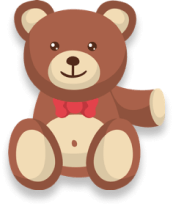
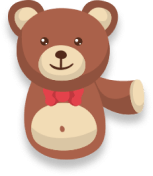
nsc vast creative - mishutka52

diff --git a/ads/2019/nsc/mishutka/index.hyperesources/index_hype_generated_script.js b/ads/2019/nsc/mishutka/index.hyperesources/index_hype_generated_script.js
@@ -3,5 +3,5 @@
 (function(){(function k(){function l(a,b,d){var c=!1;null==window[a]&&(null==window[b]?(window[b]=[],window[b].push(k),a=document.getElementsByTagName("head")[0],b=document.createElement("script"),c=h,false==!0&&(c=""),b.type="text/javascript",b.src=c+"/"+d,a.appendChild(b)):window[b].push(k),c=!0);return c}var h="index.hyperesources",c="index",e="index_hype_container";if(false==!1)try{for(var f=document.getElementsByTagName("script"),
 a=0;a<f.length;a++){var b=f[a].src,d=null!=b?b.indexOf("/index_hype_generated_script.js"):-1;if(-1!=d){h=b.substr(0,d);break}}}catch(n){}if(false==!1&&(a=navigator.userAgent.match(/MSIE (\d+\.\d+)/),a=parseFloat(a&&a[1])||null,a=l("HYPE_598","HYPE_dtl_598",!0==(null!=a&&10>a||false==!0)?"HYPE-598.full.min.js":"HYPE-598.thin.min.js"),false==!0&&(a=a||l("HYPE_w_598","HYPE_wdtl_598","HYPE-598.waypoints.min.js")),a))return;f=window.HYPE.documents;
 if(null!=f[c]){b=1;a=c;do c=""+a+"-"+b++;while(null!=f[c]);d=document.getElementsByTagName("div");b=!1;for(a=0;a<d.length;a++)if(d[a].id==e&&null==d[a].getAttribute("HYP_dn")){var b=1,g=e;do e=""+g+"-"+b++;while(null!=document.getElementById(e));d[a].id=e;b=!0;break}if(!1==b)return}b=[];b=[];d={};g={};for(a=0;a<b.length;a++)try{g[b[a].identifier]=b[a].name,d[b[a].name]=eval("(function(){return "+b[a].source+"})();")}catch(m){window.console&&window.console.log(m),d[b[a].name]=
-function(){}}a=new HYPE_598(c,e,{"7":{p:1,n:"bear.png",g:"28",t:"@1x"},"3":{p:1,n:"cta.png",g:"20",t:"@1x"},"8":{p:1,n:"message_2x.png",g:"14",t:"@2x"},"4":{p:1,n:"Screenshot%202019-07-12%2014.27.18.jpg",g:"26",o:true,t:"@1x"},"0":{p:1,n:"hand_2x.png",g:"17",t:"@2x"},"9":{p:1,n:"message.png",g:"14",t:"@1x"},"5":{p:1,n:"Screenshot%202019-07-12%2014.27.18_2x.jpg",g:"26",o:true,t:"@2x"},"1":{p:1,n:"hand.png",g:"17",t:"@1x"},"6":{p:1,n:"bear_2x.png",g:"28",t:"@2x"},"2":{p:1,n:"cta_2x.png",g:"20",t:"@2x"}},h,[],d,[{n:"Untitled Scene",o:"1",X:[0]}],[{o:"3",p:"600px",cA:false,Y:190,Z:62,L:[],c:"#DFE1E1",bY:1,d:190,U:{},T:{kTimelineDefaultIdentifier:{i:"kTimelineDefaultIdentifier",n:"Main Timeline",z:7.15,b:[],a:[{f:"c",y:0,z:1,i:"b",e:-2,s:68,o:"33"},{f:"c",y:0,z:1,i:"f",e:0,s:-30,o:"33"},{f:"c",y:0,z:0.21,i:"f",e:0,s:-20,o:"35"},{f:"c",y:0,z:1,i:"cQ",e:1,s:0.5,o:"33"},{f:"c",y:0,z:1,i:"cR",e:1,s:0.5,o:"33"},{f:"c",y:0.21,z:0.18,i:"e",e:1,s:0,o:"38"},{f:"c",y:0.21,z:0.18,i:"a",e:75,s:55,o:"38"},{f:"c",y:0.21,z:1,i:"f",e:10,s:0,o:"35"},{y:1,i:"b",s:-2,z:0,o:"33",f:"c"},{y:1,i:"f",s:0,z:0,o:"33",f:"c"},{y:1,i:"cQ",s:1,z:0,o:"33",f:"c"},{y:1,i:"cR",s:1,z:0,o:"33",f:"c"},{y:1.09,i:"e",s:1,z:0,o:"38",f:"c"},{y:1.09,i:"a",s:75,z:0,o:"38",f:"c"},{f:"c",y:1.14,z:0.16,i:"cR",e:1.1000000000000001,s:0.69999999999999996,o:"36"},{f:"c",y:1.14,z:0.16,i:"cQ",e:1.1000000000000001,s:0.69999999999999996,o:"36"},{f:"c",y:1.14,z:0.16,i:"e",e:1,s:0,o:"36"},{f:"c",y:1.21,z:1,i:"f",e:-10,s:10,o:"35"},{f:"c",y:2,z:0.28,i:"cR",e:1,s:1.1000000000000001,o:"36"},{f:"c",y:2,z:0.28,i:"cQ",e:1,s:1.1000000000000001,o:"36"},{y:2,i:"e",s:1,z:0,o:"36",f:"c"},{f:"c",y:2.21,z:1,i:"f",e:10,s:-10,o:"35"},{f:"c",y:2.28,z:2.17,i:"cR",e:1,s:1,o:"36"},{f:"c",y:2.28,z:2.17,i:"cQ",e:1,s:1,o:"36"},{f:"c",y:3.21,z:0.28,i:"f",e:-10,s:10,o:"35"},{f:"c",y:4.19,z:0.26,i:"f",e:10,s:-10,o:"35"},{f:"c",y:5.15,z:0.15,i:"cR",e:1.1000000000000001,s:1,o:"36"},{f:"c",y:5.15,z:0.15,i:"cQ",e:1.1000000000000001,s:1,o:"36"},{f:"c",y:5.15,z:1,i:"f",e:-10,s:10,o:"35"},{f:"c",y:6,z:0.15,i:"cQ",e:1,s:1.1000000000000001,o:"36"},{f:"c",y:6,z:0.15,i:"cR",e:1,s:1.1000000000000001,o:"36"},{y:6.15,i:"cQ",s:1,z:0,o:"36",f:"c"},{y:6.15,i:"cR",s:1,z:0,o:"36",f:"c"},{f:"c",y:6.15,z:1,i:"f",e:10,s:-10,o:"35"},{f:"c",p:2,y:7.15,z:0,i:"ActionHandler",s:{a:[{i:3.7000000476837158,b:"kTimelineDefaultIdentifier",p:9,symbolOid:"2"}]},o:"kTimelineDefaultIdentifier"},{y:7.15,i:"f",s:10,z:0,o:"35",f:"c"}],f:30}},bZ:180,O:["33","37","34","38","35","36"],n:"Untitled Layout","_":0,v:{"34":{h:"28",p:"no-repeat",x:"visible",a:12,q:"100% 100%",b:3,j:"absolute",dB:"img",z:2,k:"div",bF:"33",d:101,c:85,r:"inline",e:1,f:0},"37":{h:"26",p:"no-repeat",x:"visible",a:0,q:"100% 100%",b:1,j:"absolute",dB:"img",z:1,k:"div",c:190,d:62,r:"none",e:0.075158227848101264},"33":{f:-30,x:"visible",k:"div",cR:0.5,c:97,d:96,z:7,a:0,j:"absolute",cQ:0.5,b:68},"36":{h:"20",p:"no-repeat",x:"visible",a:93,q:"100% 100%",b:40,j:"absolute",dB:"img",z:8,k:"div",c:80,d:19,r:"inline",cQ:0.69999999999999996,e:0,cR:0.69999999999999996},"35":{h:"17",p:"no-repeat",x:"visible",tY:0.75,q:"100% 100%",b:33,a:0,j:"absolute",z:1,dB:"img",k:"div",d:36,bF:"33",c:40,r:"inline",f:-20,tX:1},"38":{h:"14",p:"no-repeat",x:"visible",a:55,q:"100% 100%",b:3,j:"absolute",dB:"img",z:2,k:"div",c:115,d:40,r:"inline",e:0}}}],{},g,{},null,false,false,-1,true,true,false,true);f[c]=a.API;document.getElementById(e).setAttribute("HYP_dn",
+function(){}}a=new HYPE_598(c,e,{"7":{p:1,n:"message.png",g:"14",t:"@1x"},"3":{p:1,n:"cta.png",g:"20",t:"@1x"},"8":{p:1,n:"bear_2x.png",g:"28",t:"@2x"},"4":{p:1,n:"Screenshot%202019-07-12%2014.27.18.jpg",g:"26",o:true,t:"@1x"},"0":{p:1,n:"hand_2x.png",g:"17",t:"@2x"},"9":{p:1,n:"bear.png",g:"28",t:"@1x"},"5":{p:1,n:"Screenshot%202019-07-12%2014.27.18_2x.jpg",g:"26",o:true,t:"@2x"},"1":{p:1,n:"hand.png",g:"17",t:"@1x"},"6":{p:1,n:"message_2x.png",g:"14",t:"@2x"},"2":{p:1,n:"cta_2x.png",g:"20",t:"@2x"}},h,[],d,[{n:"Untitled Scene",o:"1",X:[0]}],[{o:"3",p:"600px",cA:false,Y:190,Z:62,L:[],c:"#DFE1E1",bY:1,d:190,U:{},T:{kTimelineDefaultIdentifier:{i:"kTimelineDefaultIdentifier",n:"Main Timeline",z:7.15,b:[],a:[{f:"c",y:0,z:1,i:"b",e:-2,s:68,o:"33"},{f:"c",y:0,z:1,i:"f",e:0,s:-30,o:"33"},{f:"c",y:0,z:1,i:"cQ",e:1,s:0.5,o:"33"},{f:"c",y:0,z:1,i:"cR",e:1,s:0.5,o:"33"},{f:"c",y:0,z:0.21,i:"f",e:0,s:-20,o:"35"},{f:"c",y:0.21,z:0.18,i:"e",e:1,s:0,o:"38"},{f:"c",y:0.21,z:0.18,i:"a",e:75,s:55,o:"38"},{f:"c",y:0.21,z:1,i:"f",e:10,s:0,o:"35"},{y:1,i:"b",s:-2,z:0,o:"33",f:"c"},{y:1,i:"cQ",s:1,z:0,o:"33",f:"c"},{y:1,i:"cR",s:1,z:0,o:"33",f:"c"},{y:1,i:"f",s:0,z:0,o:"33",f:"c"},{y:1.09,i:"e",s:1,z:0,o:"38",f:"c"},{y:1.09,i:"a",s:75,z:0,o:"38",f:"c"},{f:"c",y:1.14,z:0.16,i:"cR",e:1.1000000000000001,s:0.69999999999999996,o:"36"},{f:"c",y:1.14,z:0.16,i:"cQ",e:1.1000000000000001,s:0.69999999999999996,o:"36"},{f:"c",y:1.14,z:0.16,i:"e",e:1,s:0,o:"36"},{f:"c",y:1.21,z:1,i:"f",e:-10,s:10,o:"35"},{f:"c",y:2,z:0.28,i:"cR",e:1,s:1.1000000000000001,o:"36"},{f:"c",y:2,z:0.28,i:"cQ",e:1,s:1.1000000000000001,o:"36"},{y:2,i:"e",s:1,z:0,o:"36",f:"c"},{f:"c",y:2.21,z:1,i:"f",e:10,s:-10,o:"35"},{f:"c",y:2.28,z:2.17,i:"cR",e:1,s:1,o:"36"},{f:"c",y:2.28,z:2.17,i:"cQ",e:1,s:1,o:"36"},{f:"c",y:3.21,z:0.28,i:"f",e:-10,s:10,o:"35"},{f:"c",y:4.19,z:0.26,i:"f",e:10,s:-10,o:"35"},{f:"c",y:5.15,z:0.15,i:"cR",e:1.1000000000000001,s:1,o:"36"},{f:"c",y:5.15,z:0.15,i:"cQ",e:1.1000000000000001,s:1,o:"36"},{f:"c",y:5.15,z:1,i:"f",e:-10,s:10,o:"35"},{f:"c",y:6,z:0.15,i:"cQ",e:1,s:1.1000000000000001,o:"36"},{f:"c",y:6,z:0.15,i:"cR",e:1,s:1.1000000000000001,o:"36"},{y:6.15,i:"cQ",s:1,z:0,o:"36",f:"c"},{y:6.15,i:"cR",s:1,z:0,o:"36",f:"c"},{f:"c",y:6.15,z:1,i:"f",e:10,s:-10,o:"35"},{f:"c",p:2,y:7.15,z:0,i:"ActionHandler",s:{a:[{i:3.7000000476837158,b:"kTimelineDefaultIdentifier",p:9,symbolOid:"2"}]},o:"kTimelineDefaultIdentifier"},{y:7.15,i:"f",s:10,z:0,o:"35",f:"c"}],f:30}},bZ:180,O:["33","37","34","38","35","36"],n:"Untitled Layout","_":0,v:{"34":{h:"28",p:"no-repeat",x:"visible",a:12,q:"100% 100%",b:3,j:"absolute",dB:"img",z:2,k:"div",bF:"33",d:101,c:85,r:"inline",e:1,f:0},"37":{h:"26",p:"no-repeat",x:"visible",a:0,q:"100% 100%",b:1,j:"absolute",dB:"img",z:1,k:"div",c:190,d:62,r:"none",e:0.075158227848101264},"33":{f:-30,x:"visible",k:"div",cR:0.5,c:97,d:96,z:7,a:0,j:"absolute",cQ:0.5,b:68},"36":{h:"20",p:"no-repeat",x:"visible",a:93,q:"100% 100%",b:40,j:"absolute",dB:"img",z:8,k:"div",c:80,d:19,r:"inline",cQ:0.69999999999999996,e:0,cR:0.69999999999999996},"35":{h:"17",p:"no-repeat",x:"visible",tY:0.75,q:"100% 100%",b:33,a:0,j:"absolute",z:1,dB:"img",k:"div",d:36,bF:"33",c:40,r:"inline",f:-20,tX:1},"38":{h:"14",p:"no-repeat",x:"visible",a:55,q:"100% 100%",b:3,j:"absolute",dB:"img",z:2,k:"div",c:115,d:40,r:"inline",e:0}}}],{},g,{},null,false,false,-1,true,true,false,true);f[c]=a.API;document.getElementById(e).setAttribute("HYP_dn",
 c);a.z_o(this.body)})();})();

diff --git a/libs/vast/vpaid.linear.js b/libs/vast/vpaid.linear.js
@@ -197,12 +197,21 @@
         }(), this.slot = this.targetWindow.document.body, this.initEvents(this.targetWindow)
       },
       stop: function () {
-        this.active && (this.targetWindow.removeEventListener("resize", this.updateSize), this.targetWindow.removeEventListener("scroll", this.updateSize))
+        if (this.active) {
+          this.targetWindow.removeEventListener("resize", this.updateSize);
+          this.targetWindow.removeEventListener("scroll", this.updateSize);
+          this.targetWindow.removeEventListener("orientationchange", this.updateSize);
+        }
       },
       initEvents: function (t) {
-        this.updateSize = this.updateSize.bind(this), t.addEventListener("resize", this.updateSize), t.addEventListener("scroll", this.updateSize)
+        console.log("initEvents", t);
+        this.updateSize = this.updateSize.bind(this);
+         t.addEventListener("resize", this.updateSize);
+         t.addEventListener("orientationchange", this.updateSize);
+         t.addEventListener("scroll", this.updateSize);
       },
       updateSize: function () {
+        console.log("updateSize");
         var t = getNewSizes(this.environmentSlot, this.targetWindow);
         videoDomElementsAndPostMessages.update({
           type: "AdResize",
@@ -376,9 +385,21 @@
           //from TrckingEvents in XML
           //TRACKING HERE
           //console.log("d(creativeEvent)", creativeEvent);
-          if ((creativeEvent.type == eventDescriptionObject.AdUserClose) || (creativeEvent.type == eventDescriptionObject.AdStopped)) {
+          if ((creativeEvent.type == eventDescriptionObject.AdUserClose) || 
+            (creativeEvent.type == eventDescriptionObject.AdStopped)) {
           }
-          e.fn && (creativeEvent.type == eventDescriptionObject.AdClickThru && mainAdObject.customParams.plc ? e.fn.call(e.ctx, creativeEvent.data.url, creativeEvent.data.id, creativeEvent.data.playerHandles) : e.fn.call(e.ctx, creativeEvent))
+          if (e.fn) {
+              if (creativeEvent.type == eventDescriptionObject.AdClickThru && 
+                mainAdObject.customParams.plc) {
+                    e.fn.call(e.ctx, creativeEvent.data.url, creativeEvent.data.id, creativeEvent.data.playerHandles)
+                } else {
+                    e.fn.call(e.ctx, creativeEvent, creativeEvent.data.id, false);
+                }
+          }; 
+          /*&& (creativeEvent.type == eventDescriptionObject.AdClickThru && 
+            mainAdObject.customParams.plc ? 
+                e.fn.call(e.ctx, creativeEvent.data.url, creativeEvent.data.id, creativeEvent.data.playerHandles) : 
+                e.fn.call(e.ctx, creativeEvent))*/
         })
       }
     };
@@ -882,6 +903,14 @@
             })
           });
         }
+
+        var parentThis = this;
+        window.addEventListener("orientationchange", function(e) {
+          console.log("orientationchange", e);
+          parentThis.updateSize("orientationchange");
+        });
+
+
         this.updateSize();
         mainAdObject.realWindow.addEventListener("message", function (recieveMessage) {
           //console.log("mainAdObject recieveMessage", recieveMessage);
@@ -939,7 +968,7 @@
         function e(t) {
           return t + ("string" == typeof t ? "" : "px")
         }
-
+        console.log('resizeVideoElement', this.videoElement);
         this.videoElement && this.videoElement.style && ((0 != t.left && 0 !== t.left.indexOf("0") || 0 != t.top && 0 !== t.top.indexOf("0") || "100%" !== t.width || "100%" !== t.height) && (mainAdObject.flags.resizeVideoElement = !0, this.videoElement.style.position = "absolute"), this.videoElement.style.width = e(t.width), this.videoElement.style.height = e(t.height), this.videoElement.style.top = e(t.top), this.videoElement.style.left = e(t.left))
       },
       translateVideoElement: function (t) {
@@ -950,8 +979,25 @@
           this.videoElement.style.webkitTransform = a, this.videoElement.style.transform = a
         }
       },
-      updateSize: function () {
-        return !!this.root && (S.active && S.updateSize(), void (mainAdObject.customParams.fh || (this.root.style.width = mainAdObject.adSize.width + "px", this.root.style.height = mainAdObject.adSize.height + "px", !mainAdObject.flags.resizeVideoElement && this.videoElement && this.videoElement.style && (this.videoElement.style.width = mainAdObject.adSize.width + "px", this.videoElement.style.height = mainAdObject.adSize.height + "px"))))
+      updateSize: function (type) {
+        var mainAdObject2 = mainAdObject;
+        if (type === "orientationchange") {
+          if (screen.availWidth !== mainAdObject2.adSize.width) {
+            mainAdObject2.adSize.width = screen.availWidth;
+            mainAdObject2.adSize.height = screen.availHeight;
+          } else {
+            if ((window.orientation === 90) || (window.orientation === 270)) {
+              mainAdObject2.adSize.width = screen.availHeight;
+              mainAdObject2.adSize.height = screen.availWidth;
+            }
+          }
+        }       
+        
+        console.log("updateSize2", mainAdObject2.adSize);
+        //debugger;
+        return !!this.root && (S.active && S.updateSize(), void (mainAdObject2.customParams.fh || (this.root.style.width = mainAdObject2.adSize.width + "px", this.root.style.height = mainAdObject2.adSize.height + "px", !mainAdObject2.flags.resizeVideoElement && this.videoElement && this.videoElement.style && (this.videoElement.style.width = mainAdObject2.adSize.width + "px", this.videoElement.style.height = mainAdObject2.adSize.height + "px"))));
+        //return !!this.root && (S.active && S.updateSize(), void (mainAdObject.customParams.fh || (this.root.style.width = mainAdObject.adSize.width + "px", this.root.style.height = mainAdObject.adSize.height + "px", !mainAdObject.flags.resizeVideoElement && this.videoElement && this.videoElement.style && (this.videoElement.style.width = mainAdObject.adSize.width + "px", this.videoElement.style.height = mainAdObject.adSize.height + "px"))));
+        return true;
       },
       setETDuration: function (t) {
         videoDomElementsAndPostMessages.etDuration >= 0 ? videoDomElementsAndPostMessages.etDuration += t : videoDomElementsAndPostMessages.etDuration = t
@@ -1334,6 +1380,7 @@
       }
     };
     possibleMainAdUnit.prototype.resizeAd = function (t, e, i) {
+      console.log("resizeAd");
       injectContentObject.log("resizeAd", arguments);
       var a = mainAdObject.fullscreen;
       mainAdObject.adSize = {

diff --git a/ads/2019/nsc/mishutka/index.html b/ads/2019/nsc/mishutka/index.html
@@ -376,7 +376,7 @@
     <div id="bg-top" class="bg-fields"></div>
     <div id="bg-bottom" class="bg-fields"></div>
 
-    <div id="cta" rel="https://mishutka52.ru/?utm_source=rmedia&utm_medium=cpm&utm_campaign=showjet">
+    <div id="cta" class="hide" rel="https://mishutka52.ru/?utm_source=rmedia&utm_medium=cpm&utm_campaign=showjet">
       <div id="index_hype_container" style="margin:auto;position:relative;width:190px;height:62px;overflow:hidden;">
         <script type="text/javascript" charset="utf-8" src="index.hyperesources/index_hype_generated_script.js?80127"></script>
       </div>
@@ -458,6 +458,10 @@
         app.pause();
       });*/
 
+      setTimeout(function() {
+        document.getElementById("cta").classList.remove("hide");
+      }, 3000);
+
       document.getElementById("close").addEventListener("click", function(e) {
         //console.log("close click");
         app.close();
@@ -468,7 +472,7 @@
         buttons[i].addEventListener("click", function(e) {          
           var url = this.attributes.rel.value;
           //console.log(url);
-          app.clickByURL(url);
+          app.click(); //app.clickByURL(url);
           app.pause();
         });
       }
@@ -476,6 +480,7 @@
       app.stateChange(function(state, data) {
         switch (state) {
           case "SetConfig":
+           //app.customParams['plc'] = true;
             /**init viewst button on video**/
             /*layer.addEventListener("click", function(e) {
               console.log("layer click", e);

diff --git a/ads/2019/nsc/mishutka/interface.js b/ads/2019/nsc/mishutka/interface.js
@@ -190,6 +190,7 @@
     };
     Interface.prototype.click = function(name) {
         name = name || "default";
+        debugger;
         if (this.customParams["plc"]) { // if only player should open url
             sendToAPP("action", {type: "AdClickThru", id: name, url: getClickURL(this.clicks, name)}, this.id);
         } else {
@@ -313,7 +314,9 @@
                 this.components.timer.innerText = "Реклама | " + Math.round(data.totalTime - data.currentTime) + " сек.";
                 break;
             case "AdSkippableStateChange":
-                this.components.close.style.display = "block";
+                if (this.components.close) {
+                    this.components.close.style.display = "block";
+                }
                 break;
             case "AdVolumeChange":
                 if (this.components.sound) {
